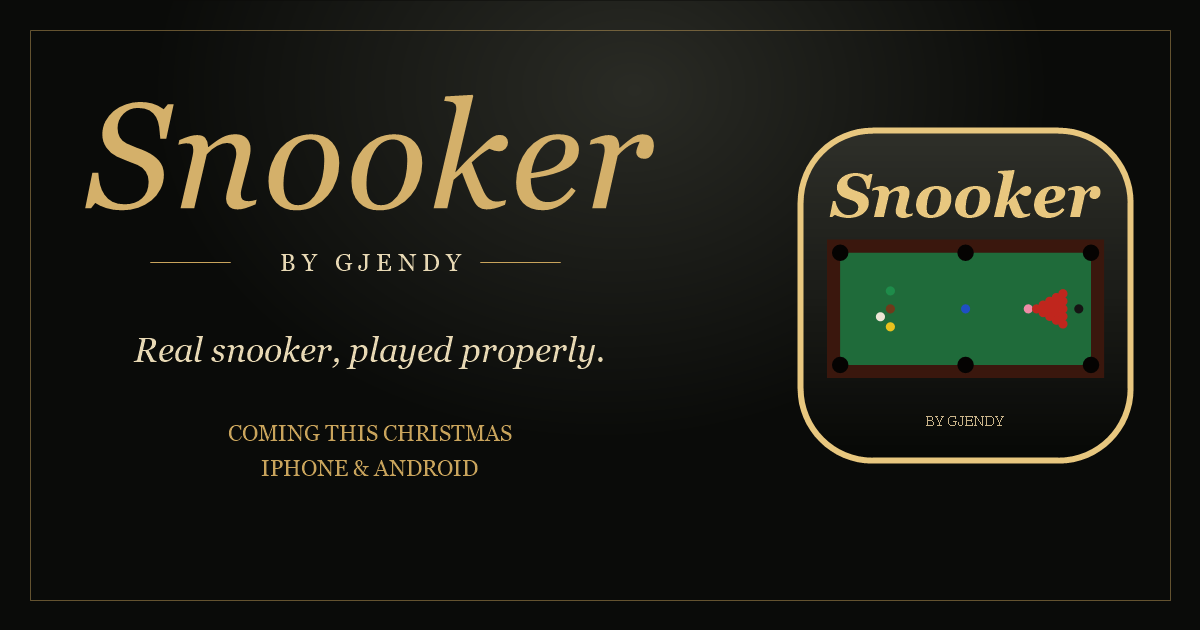
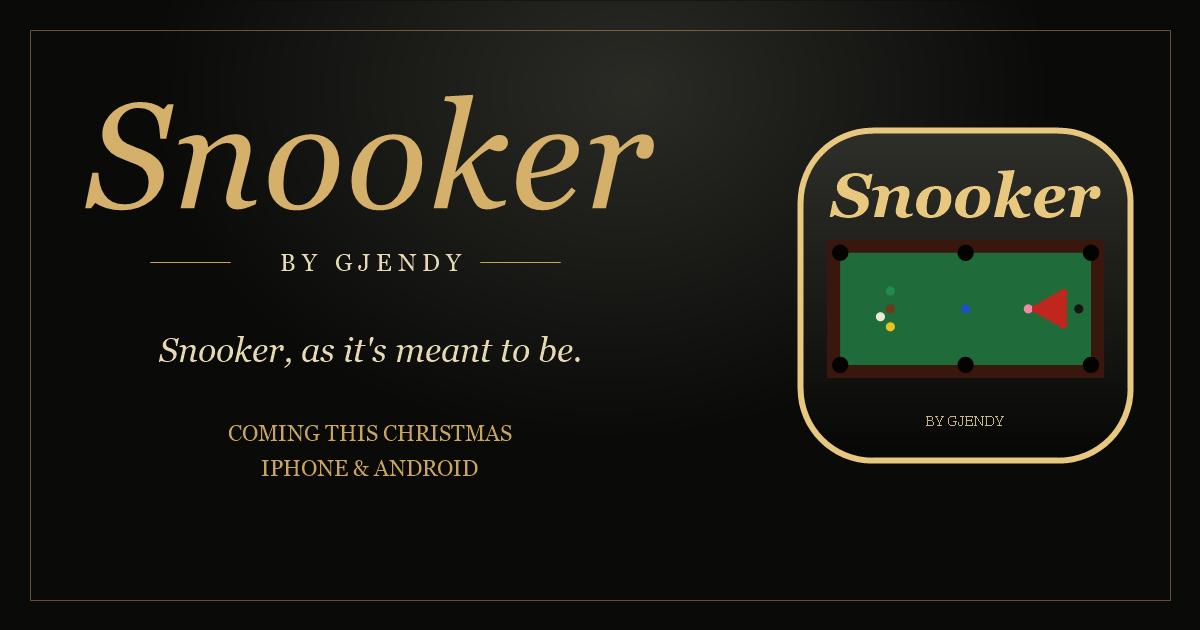
Ny tagline på forsiden og delingsbildet

Changed region(s): [[0.0925, 0.5429, 0.4933, 0.6032]]

diff --git a/index.html b/index.html
@@ -40,7 +40,7 @@
 <div class="rule-fade"></div>
 <h1 class="logo sheen rise">Snooker</h1>
 <div class="by"><i></i><span>BY GJENDY</span><i></i></div>
-<p class="tag rise d3">Real snooker, played properly.</p>
+<p class="tag rise d3">Snooker, as it's meant to be.</p>
 <p class="sub rise d5">Full professional rules, a tactical opponent that plays safety like a pro, and the quiet drama of a televised final.</p>
 <div class="coming rise d7">
 <div class="appicon"><svg viewBox="0 0 100 100" role="img" aria-label="Snooker by Gjendy app icon"><defs><linearGradient id="herogX2a" x1="0" y1="0" x2="0" y2="1"><stop offset="0" stop-color="#FFF4D2"></stop><stop offset="0.4" stop-color="#E8C77F"></stop><stop offset="0.75" stop-color="#C29A50"></stop><stop offset="1" stop-color="#8A6A2E"></stop></linearGradient><radialGradient id="herosqX2a" cx="50%" cy="22%" r="85%"><stop offset="0" stop-color="#2E2F29"></stop><stop offset="0.5" stop-color="#121310"></stop><stop offset="1" stop-color="#070806"></stop></radialGradient>
